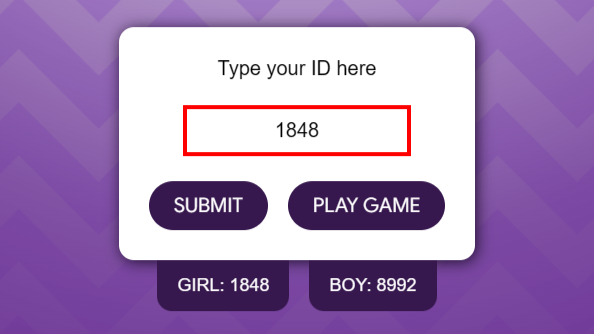
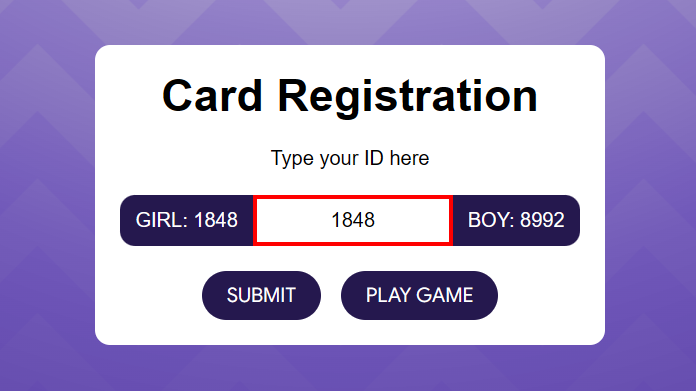
Refactored styles.  Added instructions for Add to Home Screen.

diff --git a/project-files/public/css/play.css b/project-files/public/css/play.css
@@ -14,6 +14,9 @@
     --base-gap-thin: 15px;
     --base-gap: 25px;
     --base-font: 20px;
+    --header-font: 45px;
+    --header-margin: 15px 0;
+    --pop-up-width: 800px;
 }
 
 @font-face {
@@ -32,7 +35,12 @@
     text-align: center;
 }
 
+.outline {
+    border: solid red 4px;
+}
+
 h2 {
+    font-size: var(--header-font);
     margin: 0;
 }
 
@@ -113,6 +121,11 @@ input {
             color: white;
             font-size: var(--base-font);
             padding: 10px 15px;
+
+            &:hover {
+                cursor: pointer;
+                background-color: var(--darkest-purple);
+            }
         }
 
         .boy-suggestion {
@@ -351,20 +364,19 @@ button, .button {
 .pop-up {
     height: fit-content;
     width: 80vw;
-    max-width: 800px;
+    max-width: var(--pop-up-width);
     background-color: white;
     display: flex;
     flex-direction: column;
-    gap: 20px;
+    gap: var(--base-gap-thin);
     align-items: center;
     justify-content: center;
     border-radius: 15px;
-    padding: 30px;
+    padding: var(--base-gap);
 
     h2 {
-        font-size: 45px;
-        margin-top: 15px;
-        margin-bottom: 15px;
+        font-size: var(--header-font);
+        margin: var(--header-margin);
     }
 
     p {
@@ -373,19 +385,8 @@ button, .button {
 
     img {
         max-width: 350px;
-        width: 80vw;
-        max-height: 40vh;
-    }
-
-    @media (max-width: 1000px) {
-        max-width: 550px;
-        gap: 15px;
-
-        h2 {
-            font-size: 30px;
-            margin-top: 10px;
-            margin-bottom: 10px;
-        }
+        width: 80%;
+        max-height: 35vh;
     }
 }
 
@@ -404,7 +405,6 @@ button, .button {
         display: flex;
         align-items: center;
         justify-content: center;
-        overflow: hidden;
     }
 }
 
@@ -442,13 +442,6 @@ video {
     max-width: 100vw;
     max-height: 100vh;
     z-index: 1;
-}
-
-.button-group {
-    display: flex;
-    flex-direction: column;
-    align-items: center;
-    gap: 15px;
 }
 
 .close-intro-container {
@@ -550,10 +543,33 @@ video {
     }
 }
 
-@media (orientation: portrait) {
-    .button-group {
-        position: fixed;
-        bottom: 20px;
+@media (max-height: 600px) {
+    :root {
+        --base-font: 15px;
+        --base-gap: 15px;
+        --header-font: 30px;
+        --header-margin: 10px 0;
+        --pop-up-width: 550px;
+    }
+
+    .pop-up {
+        img {
+            max-height: 30vh;
+        }
+    }
+}
+
+@media (max-height: 400px) {
+    :root {
+        --base-gap: 12px;
+        --header-font: 25px;
+        --header-margin: 0 0;
+    }
+
+    .pop-up {
+        img {
+            max-height: 25vh;
+        }
     }
 }
 
@@ -561,6 +577,15 @@ video {
     :root {
         --base-font: 15px;
         --base-gap: 15px;
+        --header-font: 30px;
+        --header-margin: 10px 0;
+        --pop-up-width: 550px;
+    }
+
+    .pop-up {
+        img {
+            max-height: 30vh;
+        }
     }
 
     #fullscreen-button {
